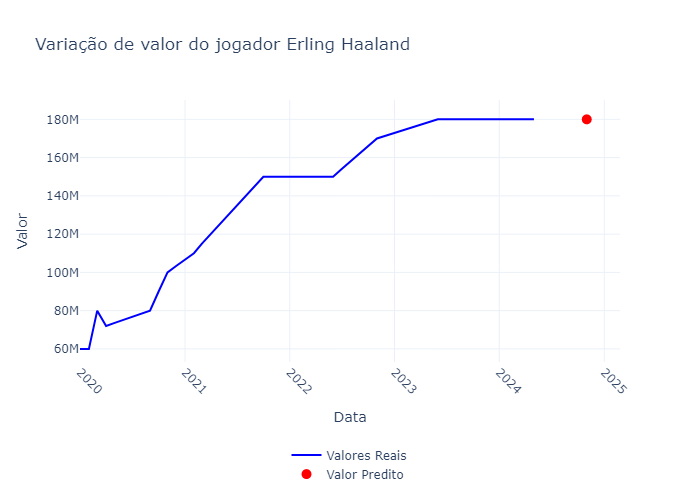
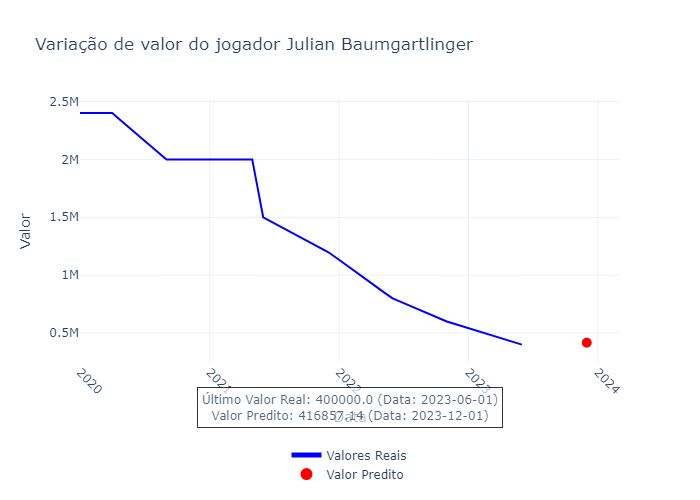
Refactor player details display and enhance graph plotting functionality

diff --git a/project_soccerstats/app_soccerstats/templates/details.html b/project_soccerstats/app_soccerstats/templates/details.html
@@ -32,22 +32,53 @@
                 {% if jogador.Pos == 'FW' %}
                     <h2>Chutes ao Gol: {{ jogador.SoT }}</h2>
                     <h2>Gols: {{ jogador.Goals }}</h2>
-                    <h2>Conversão de Gols: {{ jogador|get_item:"G/SoT" }}</h2>
+                    <h2>Coversão de Gols: {{ jogador|get_item:"G/SoT" }}</h2>
                     <h2>Assistências: {{ jogador.Assists }}</h2>
                 {% elif jogador.Pos == 'MF' %}
                     <h2>Gols: {{ jogador.Goals }}</h2>
-                    <h2>Passes Completos (%): {{ jogador|get_item:"PasTotCmp%" }}</h2>
-                    <h2>Distância Total Passada: {{ jogador|get_item:"PasTotDist" }}</h2>
+                    <h2>PasTotCmp%: {{ jogador|get_item:"PasTotCmp%" }}</h2>
+                    <h2>PasTotDist: {{ jogador|get_item:"PasTotDist" }}</h2>
                     <h2>Assistências: {{ jogador.Assists }}</h2>
                 {% elif jogador.Pos == 'DF' %}
-                    <h2>Passes Completos: {{ jogador.PasTotCmp }}</h2>
-                    <h2>Distância Total Passada: {{ jogador.PasTotDist }}</h2>
-                    <h2>Desarmes Vencidos: {{ jogador|get_item:"TklWon" }}</h2>
-                    <h2>Desarmes: {{ jogador.Tkl }}</h2>
+                    <h2>PasTotCmp: {{ jogador.PasTotCmp }}</h2>
+                    <h2>PasTotDist: {{ jogador.PasTotDist }}</h2>
+                    <h2>TklWon: {{ jogador|get_item:"TklWon" }}</h2>
+                    <h2>Tkl: {{ jogador.Tkl }}</h2>
+                {% elif jogador.Pos == 'DFMF' %}
+                    <h2>PasTotCmp: {{ jogador.PasTotCmp }}</h2>
+                    <h2>PasTotDist: {{ jogador.PasTotDist }}</h2>
+                    <h2>PasTotPrgDist: {{ jogador|get_item:"PasTotPrgDist" }}</h2>
+                    <h2>Tkl: {{ jogador.Tkl }}</h2>
+                {% elif jogador.Pos == 'MFDF' %}
+                    <h2>Goals: {{ jogador.Goals }}</h2>
+                    <h2>Shots: {{ jogador.Shots }}</h2>
+                    <h2>SoT: {{ jogador.SoT }}</h2>
+                    <h2>G/SoT: {{ jogador|get_item:"G/SoT" }}</h2>
+                {% elif jogador.Pos == 'DFFW' %}
+                    <h2>PasTotCmp: {{ jogador.PasTotCmp }}</h2>
+                    <h2>PasTotDist: {{ jogador.PasTotDist }}</h2>
+                    <h2>PasTotPrgDist: {{ jogador|get_item:"PasTotPrgDist" }}</h2>
+                    <h2>Tkl: {{ jogador.Tkl }}</h2>
+                {% elif jogador.Pos == 'FWMF' %}
+                    <h2>Goals: {{ jogador.Goals }}</h2>
+                    <h2>Shots: {{ jogador.Shots }}</h2>
+                    <h2>G/SoT: {{ jogador|get_item:"G/SoT" }}</h2>
+                    <h2>ShoDist: {{ jogador.ShoDist }}</h2>
+                {% elif jogador.Pos == 'FWDF' %}
+                    <h2>Goals: {{ jogador.Goals }}</h2>
+                    <h2>Shots: {{ jogador.Shots }}</h2>
+                    <h2>Coversão de Gols: {{ jogador|get_item:"G/SoT" }}</h2>
+                    <h2>SoT: {{ jogador.SoT }}</h2>
+                {% elif jogador.Pos == 'MFFW' %}
+                    <h2>Goals: {{ jogador.Goals }}</h2>
+                    <h2>Shots: {{ jogador.Shots }}</h2>
+                    <h2>Conversão de Gols: {{ jogador|get_item:"G/SoT" }}</h2>
+                    <h2>SoT: {{ jogador.SoT }}</h2>
                 {% elif jogador.Pos == 'GK' %}
-                    <h2>Passes Completos: {{ jogador.PasTotCmp }}</h2>
-                    <h2>Distância Total Passada: {{ jogador.PasTotDist }}</h2>
-                    <h2>Defesas: {{ jogador.Blocks }}</h2>
+                    <h2>PasTotCmp: {{ jogador.PasTotCmp }}</h2>
+                    <h2>PasTotDist: {{ jogador.PasTotDist }}</h2>
+                    <h2>PasTotPrgDist: {{ jogador|get_item:"PasTotPrgDist" }}</h2>
+                    <h2>Blocks: {{ jogador.Blocks }}</h2>
                 {% endif %}
             </div>
         </div>

diff --git a/project_soccerstats/static/css/details.css b/project_soccerstats/static/css/details.css
@@ -21,6 +21,7 @@
     background: #fff;
     border: 1px solid #ddd;
     border-radius: 10px;
+    height: fit-content;
     box-shadow: 0 4px 6px rgba(0, 0, 0, 0.1);
     padding: 20px;
     text-align: center;

diff --git a/project_soccerstats/app_soccerstats/views.py b/project_soccerstats/app_soccerstats/views.py
@@ -292,46 +292,76 @@ def plot_graph(jogador):
 
 #Plotar gráfico de variação de valor
 def plot_variation_for_player(df1, df2, player_name):
-
     df1 = df_1
     df2 = df_0
-
+    # Verifica se o jogador existe no DataFrame
     if player_name not in df1['Player'].values:
         print(f"O jogador {player_name} não foi encontrado no DataFrame.")
         return
 
     print(f"JOGADOR: {player_name}.")
 
+    # Obtém os valores reais e as datas
     values = df1[df1['Player'] == player_name]['Value']
     dates_real = df1[df1['Player'] == player_name]['Date']
 
+    # Obtém o último valor real
+    last_real_value = values.iloc[-1]  
+    last_real_date = dates_real.iloc[-1]  
+
+    # Obtém o valor predito e a data predita
     predicted_value = df2[df2['Player'] == player_name]['Value'].values[0]
     date_predicted = df2[df2['Player'] == player_name]['Date'].values[0]
 
     fig = go.Figure()
 
+    # Adiciona a linha dos valores reais
     fig.add_trace(go.Scatter(x=dates_real, y=values, mode='lines', name='Valores Reais', line=dict(color='blue')))
 
+    # Adiciona o ponto do valor predito
     fig.add_trace(go.Scatter(x=[date_predicted], y=[predicted_value], mode='markers', name='Valor Predito',
                              marker=dict(color='red', size=10)))
 
+    # Atualiza o layout do gráfico
     fig.update_layout(
-    xaxis_title="Data",
-    yaxis_title="Valor",
-    title=f"Variação de valor do jogador {player_name}",
-    legend=dict(
-        yanchor="top",  # Alinha a legenda pelo topo
-        y=-0.3,         # Posiciona a legenda abaixo do gráfico
-        xanchor="center",  # Centraliza a legenda horizontalmente
-        x=0.5           # Centraliza em relação ao eixo x
-    ),
-    xaxis_tickangle=45,
-    template="plotly_white",
-    plot_bgcolor='rgba(255, 255, 255, 0.0)',
-    paper_bgcolor='rgba(255, 255, 255, 0.5)'
+        xaxis_title="Data",
+        yaxis_title="Valor",
+        title=f"Variação de valor do jogador {player_name}",
+        legend=dict(
+            yanchor="top",
+            y=-0.3,
+            xanchor="center",
+            x=0.5,
+            itemsizing='constant'  # Mantém o tamanho constante dos itens da legenda
+        ),
+        xaxis_tickangle=45,
+        template="plotly_white",
+        plot_bgcolor='rgba(255, 255, 255, 0.0)',  
+        paper_bgcolor='rgba(255, 255, 255, 0.5)'  
     )
-    fig.write_image(IMG_GRAPH2)
 
+    # Atualiza a legenda com os valores do último valor real e do valor predito
+    legend_text = (
+        f"Último Valor Real: {last_real_value} (Data: {last_real_date})<br>"
+        f"Valor Predito: {predicted_value} (Data: {date_predicted})"
+    )
+    
+    fig.add_annotation(
+        text=legend_text,
+        showarrow=False,
+        xref="paper", yref="paper",
+        x=0.5, y=-0.25,
+        align="center",
+        font=dict(size=12),
+        bgcolor="rgba(255, 255, 255, 0.8)",
+        bordercolor="black",
+        borderwidth=1,
+        borderpad=4,
+        opacity=0.8
+    )
+
+    # Salva a imagem do gráfico
+    fig.write_image(IMG_GRAPH2)
 
 def plot_boxplot_comparison(df, player_name):
     # Verifica se o jogador existe no DataFrame
